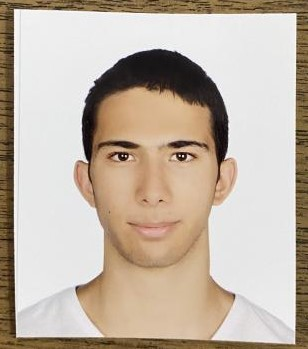
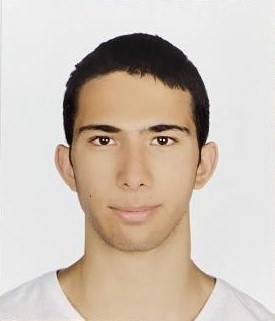
about page working

diff --git a/src/components/pages/About.js b/src/components/pages/About.js
@@ -1,5 +1,6 @@
 import React from 'react';
 import AboutPic from '../../img/northwestern_profile.jpg';
+import '../../css/about.css'
 
 // Here we are using object destructuring assignment to pluck off our variables from the props object
 // We assign them to their own variable names
@@ -10,11 +11,11 @@ export default function About() {
                 <h2>
                     About Me
                 </h2>
-                <div>
-                    <img alt='mypicture' src={AboutPic}/>
-                    <div>
+                <div className='bioCont'>
+                    <img alt='mypicture' className='img-thumbnail   myPic' src={AboutPic}/>
+                    <div className='bioInfo'>
                         <p>
-                            Hi, my name is Ali Celikay.
+                            Lorem ipsum dolor sit amet, consectetur adipisicing elit. Deleniti quas inventore nisi praesentium. Itaque fugit maxime ullam aliquid quae odio, voluptatum necessitatibus repellendus, explicabo illo, alias accusantium asperiores dolorem exercitationem.Lorem ipsum dolor sit amet, consectetur adipisicing elit. Deleniti quas inventore nisi praesentium. Itaque fugit maxime ullam aliquid quae odio, voluptatum necessitatibus repellendus, explicabo illo, alias accusantium asperiores dolorem exercitationem.
                         </p>
                     </div>
                 </div>

diff --git a/src/css/footer.css b/src/css/footer.css
@@ -4,25 +4,36 @@ footer {
     bottom: 0 !important;
     
     display: flex !important;
-    align-items: center;
-    flex-direction: row !important;
-    justify-content: space-between !important;
-    
+    align-items:center;
+    justify-content: right;
+
     background-color: rgba(49, 52, 61, 1);
     width: 100% !important;
     height: 70px !important;
-    
-    
-    /* padding: 30px; */
-    /* margin:auto; */
-    /* left:0px; */
-    /* flex-direction: row !important; */
-    /* navbar need to be above the content, w/o this then the nav would be behind the web conten */
-    /* z-index: 2 !important; */
-    /* display: inline; */
 }
 
-.content {
-    /* align-items: center; */
-    /* justify-content: right !important; */
+
+.content a {
+    color: rgba(146, 204, 206, 1);
+    padding: 5px;
+    text-decoration: none;
+    font-size: 1.3rem;
+    font-style: normal;
+    background-image: linear-gradient(270deg, rgba(146, 204, 206, 1) 0%, rgba(49, 52, 61, 1) 100%);
+    background-repeat: no-repeat;
+    background-size: 100% 0.2em;
+    background-position: bottom;
+    transition: all 0.25s ease-in;
+    margin: 0 0.2rem 0.1rem;
+    display: inline-block;
+    justify-content: space-between;
+}
+  
+.content a:hover {
+    background-size: 100% 88%;
+    color: rgba(238, 238, 247, 1);
+}
+
+.content a:last-child {
+    margin-right: 90px;
 }

diff --git a/src/css/about.css b/src/css/about.css
@@ -1,0 +1,11 @@
+.bioCont {
+    display: flex;
+    align-items: center;
+}
+
+
+.bioInfo{
+    margin-left: 20px;
+}
+
+
